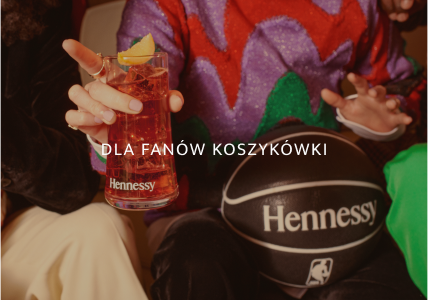
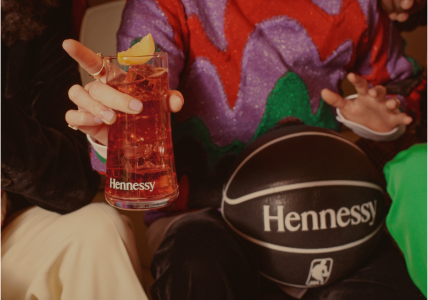
Changed images

Changed region(s): [[0.2126, 0.48, 0.7593, 0.54]]

diff --git a/index.html b/index.html
@@ -27,30 +27,28 @@
 <section class="companies-wrapper">
     <div class="row">
         <div class="companies">
-            <div class="companies__group">
-                <a href="#moet-chandon">
-                    <img src="img/companies/Button-secondary.png" alt="">
-                </a>
-                <a href="#belveder">
-                    <img src="img/companies/Button-secondary-1.png" alt="">
-                </a>
-                <a href="#glenmorangie">
-                    <img src="img/companies/Button-secondary-2.png" alt="">
-                </a>
-            </div>
 
-            <div class="companies__break"></div>
-            <div class="companies__group">
-                <a href="#hennessy">
-                    <img src="img/companies/Button-secondary-3.png" alt="">
-                </a>
-                <a href="#spritz">
-                    <img src="img/companies/Button-secondary-4.png" alt="">
-                </a>
-                <a href="#all-products">
-                    <img src="img/companies/Button-secondary-5.png" alt="">
-                </a>
-            </div>
+            <a href="#moet-chandon">
+                <img src="img/companies/Button-secondary.png" alt="">
+            </a>
+            <a href="#belveder">
+                <img src="img/companies/Button-secondary-1.png" alt="">
+            </a>
+            <a href="#glenmorangie">
+                <img src="img/companies/Button-secondary-2.png" alt="">
+            </a>
+
+
+            <a href="#hennessy">
+                <img src="img/companies/Button-secondary-3.png" alt="">
+            </a>
+            <a href="#spritz">
+                <img src="img/companies/Button-secondary-4.png" alt="">
+            </a>
+            <a href="#all-products">
+                <img src="img/companies/Button-secondary-5.png" alt="">
+            </a>
+
         </div>
     </div>
 </section>
@@ -68,12 +66,35 @@
 <section class="taste-grid-wrapper">
     <div class="row">
         <div class="taste-grid">
-            <a href="#glenmorangie" class="taste-grid__item"><img src="img/taste/for_connoisseurs.png" alt=""></a>
-            <a href="#belveder" class="taste-grid__item"><img src="img/taste/holidays.png" alt=""></a>
-            <a href="#moet-chandon" class="taste-grid__item"><img src="img/taste/for_new_year.png" alt=""></a>
-            <a href="#spritz" class="taste-grid__item"><img src="img/taste/for_spritz_lovers.png" alt=""></a>
-            <a href="#basketball" class="taste-grid__item"><img src="img/taste/for_basketball_fans.png" alt=""></a>
-            <a href="#hennessy" class="taste-grid__item"><img src="img/taste/for_present.png" alt=""></a>
+            <a href="#glenmorangie" class="taste-grid__item"><img src="img/taste/for_connoisseurs.png" alt="">
+                <span class="taste-grid__title">
+                    Dla koneserów
+                </span>
+            </a>
+            <a href="#belveder" class="taste-grid__item"><img src="img/taste/holidays.png" alt="">
+                <span class="taste-grid__title">
+Na świąteczny stół
+                </span>
+            </a>
+            <a href="#moet-chandon" class="taste-grid__item"><img src="img/taste/for_new_year.png" alt="">
+                <span class="taste-grid__title">
+Na Nowy Rok
+                </span>
+            </a>
+            <a href="#spritz" class="taste-grid__item"><img src="img/taste/for_spritz_lovers.png" alt="">
+                <span class="taste-grid__title">
+Dla miłośników spRitz
+                </span></a>
+            <a href="#basketball" class="taste-grid__item"><img src="img/taste/for_basketball_fans.png" alt="">
+                <span class="taste-grid__title">
+Dla fanów koszykówki
+                </span>
+            </a>
+            <a href="#hennessy" class="taste-grid__item"><img src="img/taste/for_present.png" alt="">
+                <span class="taste-grid__title">
+Na wyjątkowy prezent
+                </span>
+            </a>
         </div>
     </div>
 </section>
@@ -256,11 +277,11 @@
                 </div>
             </div>
             <div class="controls" aria-label="Carousel Navigation" tabindex="0">
-                <div class="chevron-arrow-left"  data-controls="prev" aria-controls="customize" tabindex="-1">
+                <div class="chevron-arrow-left" data-controls="prev" aria-controls="customize" tabindex="-1">
 
                 </div>
 
-                <div class="chevron-arrow-right"  data-controls="next" aria-controls="customize" tabindex="-1">
+                <div class="chevron-arrow-right" data-controls="next" aria-controls="customize" tabindex="-1">
 
                 </div>
             </div>
@@ -440,11 +461,11 @@
 
             </div>
             <div class="controls" aria-label="Carousel Navigation" tabindex="0">
-                <div class="chevron-arrow-left"  data-controls="prev" aria-controls="customize" tabindex="-1">
+                <div class="chevron-arrow-left" data-controls="prev" aria-controls="customize" tabindex="-1">
 
                 </div>
 
-                <div class="chevron-arrow-right"  data-controls="next" aria-controls="customize" tabindex="-1">
+                <div class="chevron-arrow-right" data-controls="next" aria-controls="customize" tabindex="-1">
 
                 </div>
             </div>
@@ -626,11 +647,11 @@
                 </div>
             </div>
             <div class="controls" aria-label="Carousel Navigation" tabindex="0">
-                <div class="chevron-arrow-left"  data-controls="prev" aria-controls="customize" tabindex="-1">
+                <div class="chevron-arrow-left" data-controls="prev" aria-controls="customize" tabindex="-1">
 
                 </div>
 
-                <div class="chevron-arrow-right"  data-controls="next" aria-controls="customize" tabindex="-1">
+                <div class="chevron-arrow-right" data-controls="next" aria-controls="customize" tabindex="-1">
 
                 </div>
             </div>
@@ -810,11 +831,11 @@
                 </div>
             </div>
             <div class="controls" aria-label="Carousel Navigation" tabindex="0">
-                <div class="chevron-arrow-left"  data-controls="prev" aria-controls="customize" tabindex="-1">
+                <div class="chevron-arrow-left" data-controls="prev" aria-controls="customize" tabindex="-1">
 
                 </div>
 
-                <div class="chevron-arrow-right"  data-controls="next" aria-controls="customize" tabindex="-1">
+                <div class="chevron-arrow-right" data-controls="next" aria-controls="customize" tabindex="-1">
 
                 </div>
             </div>
@@ -932,11 +953,11 @@
                 </div>
             </div>
             <div class="controls" aria-label="Carousel Navigation" tabindex="0">
-                <div class="chevron-arrow-left"  data-controls="prev" aria-controls="customize" tabindex="-1">
+                <div class="chevron-arrow-left" data-controls="prev" aria-controls="customize" tabindex="-1">
 
                 </div>
 
-                <div class="chevron-arrow-right"  data-controls="next" aria-controls="customize" tabindex="-1">
+                <div class="chevron-arrow-right" data-controls="next" aria-controls="customize" tabindex="-1">
 
                 </div>
             </div>
@@ -1054,11 +1075,11 @@
                 </div>
             </div>
             <div class="controls" aria-label="Carousel Navigation" tabindex="0">
-                <div class="chevron-arrow-left"  data-controls="prev" aria-controls="customize" tabindex="-1">
+                <div class="chevron-arrow-left" data-controls="prev" aria-controls="customize" tabindex="-1">
 
                 </div>
 
-                <div class="chevron-arrow-right"  data-controls="next" aria-controls="customize" tabindex="-1">
+                <div class="chevron-arrow-right" data-controls="next" aria-controls="customize" tabindex="-1">
 
                 </div>
             </div>
@@ -1613,7 +1634,7 @@
     const cardsWrapper = document.querySelectorAll('.cards');
     // console.log(cardsWrapper);
 
-    cardsWrapper.forEach((card)=> {
+    cardsWrapper.forEach((card) => {
         let controls = card.querySelector('.controls');
         let row = card.querySelector('.with-slider');
         if (!row) return;
@@ -1624,7 +1645,7 @@
             slideBy: 1,
             autoplay: true,
             // gutter: 12,
-            loop: false,
+            loop: true,
             nav: false,
             mouseDrag: true,
             lazyload: true,
@@ -1644,17 +1665,16 @@
                 }
             }
         });
-        slider.events.on('dragStart', function() {
+        slider.events.on('dragStart', function () {
             slider.pause();
         });
-        slider.events.on('dragMove', function() {
+        slider.events.on('dragMove', function () {
             slider.pause();
         });
-        slider.events.on('dragEnd', function() {
+        slider.events.on('dragEnd', function () {
             slider.pause();
         });
     });
-
 
 
 </script>

diff --git a/css/style.css b/css/style.css
@@ -213,22 +213,18 @@ body {
     .companies-wrapper {
       margin-bottom: 4rem; } }
 
-.companies::-webkit-scrollbar {
-  width: 0 !important; }
-
 .companies {
   display: flex;
   gap: 1.4rem;
-  overflow: -moz-scrollbars-none;
-  -ms-overflow-style: none;
-  overflow-x: auto;
-  scrollbar-width: none; }
+  flex-wrap: wrap;
+  justify-content: center; }
   @media (max-width: 916px) {
     .companies {
       flex-wrap: wrap; } }
   .companies__group {
     display: flex;
-    gap: 1.4rem; }
+    gap: 1.4rem;
+    flex-wrap: wrap; }
   .companies__break {
     display: none; }
     @media (max-width: 916px) {
@@ -249,7 +245,8 @@ body {
       grid-template-columns: repeat(2, 1fr); } }
   .taste-grid__item {
     width: 100%;
-    overflow: hidden; }
+    overflow: hidden;
+    position: relative; }
     @media (max-width: 1024px) {
       .taste-grid__item {
         height: 23rem; } }
@@ -261,6 +258,30 @@ body {
     .taste-grid__item:hover img {
       -webkit-transform: scale(1.08);
       transform: scale(1.08); }
+    .taste-grid__item::before {
+      position: absolute;
+      width: 100%;
+      height: 100%;
+      content: "";
+      top: 0;
+      left: 0;
+      background: linear-gradient(0deg, rgba(50, 38, 26, 0.3), rgba(50, 38, 26, 0.3));
+      z-index: 10; }
+  .taste-grid__title {
+    z-index: 30;
+    color: #F9F9F9;
+    position: absolute;
+    top: 50%;
+    left: 50%;
+    transform: translate(-50%, -50%);
+    text-align: center;
+    font-style: normal;
+    font-weight: 400;
+    font-size: 18px;
+    line-height: 1.2;
+    letter-spacing: 0.08em;
+    text-transform: uppercase;
+    font-family: 'Mukta', sans-serif; }
 
 .cards {
   display: flex;

diff --git a/sass/pages/_home.scss b/sass/pages/_home.scss
@@ -6,15 +6,12 @@
   }
 }
 
-.companies::-webkit-scrollbar { width: 0 !important }
 
 .companies {
   display: flex;
   gap: 1.4rem;
-  overflow: -moz-scrollbars-none;
-  -ms-overflow-style: none;
-  overflow-x: auto;
-  scrollbar-width: none;
+  flex-wrap: wrap;
+  justify-content: center;
 
   @media (max-width: 916px) {
     flex-wrap: wrap;
@@ -23,6 +20,7 @@
   &__group {
     display: flex;
     gap: 1.4rem;
+    flex-wrap: wrap;
   }
 
   &__break {
@@ -45,6 +43,7 @@
   margin-bottom: 1.6rem;
   overflow: hidden;
 
+
   @media (max-width: 1024px) {
     grid-template-columns: repeat(2, 1fr);
   }
@@ -52,6 +51,7 @@
   &__item {
     width: 100%;
     overflow: hidden;
+    position: relative;
 
     @media (max-width: 1024px) {
       height: 23rem;
@@ -68,6 +68,35 @@
       -webkit-transform: scale(1.08);
       transform: scale(1.08);
     }
+
+    &::before {
+      position: absolute;
+      width: 100%;
+      height: 100%;
+      content: "";
+      top: 0;
+      left: 0;
+      background: linear-gradient(0deg, rgba(50, 38, 26, 0.3), rgba(50, 38, 26, 0.3));
+      //background-color: red;
+      z-index: 10;
+    }
+  }
+
+  &__title {
+    z-index: 30;
+    color: #F9F9F9;
+    position: absolute;
+    top: 50%;
+    left: 50%;
+    transform:  translate(-50%, -50%);
+    text-align: center;
+    font-style: normal;
+    font-weight: 400;
+    font-size: 18px;
+    line-height: 1.2;
+    letter-spacing: 0.08em;
+    text-transform: uppercase;
+    font-family: 'Mukta', sans-serif;
   }
 }
 
